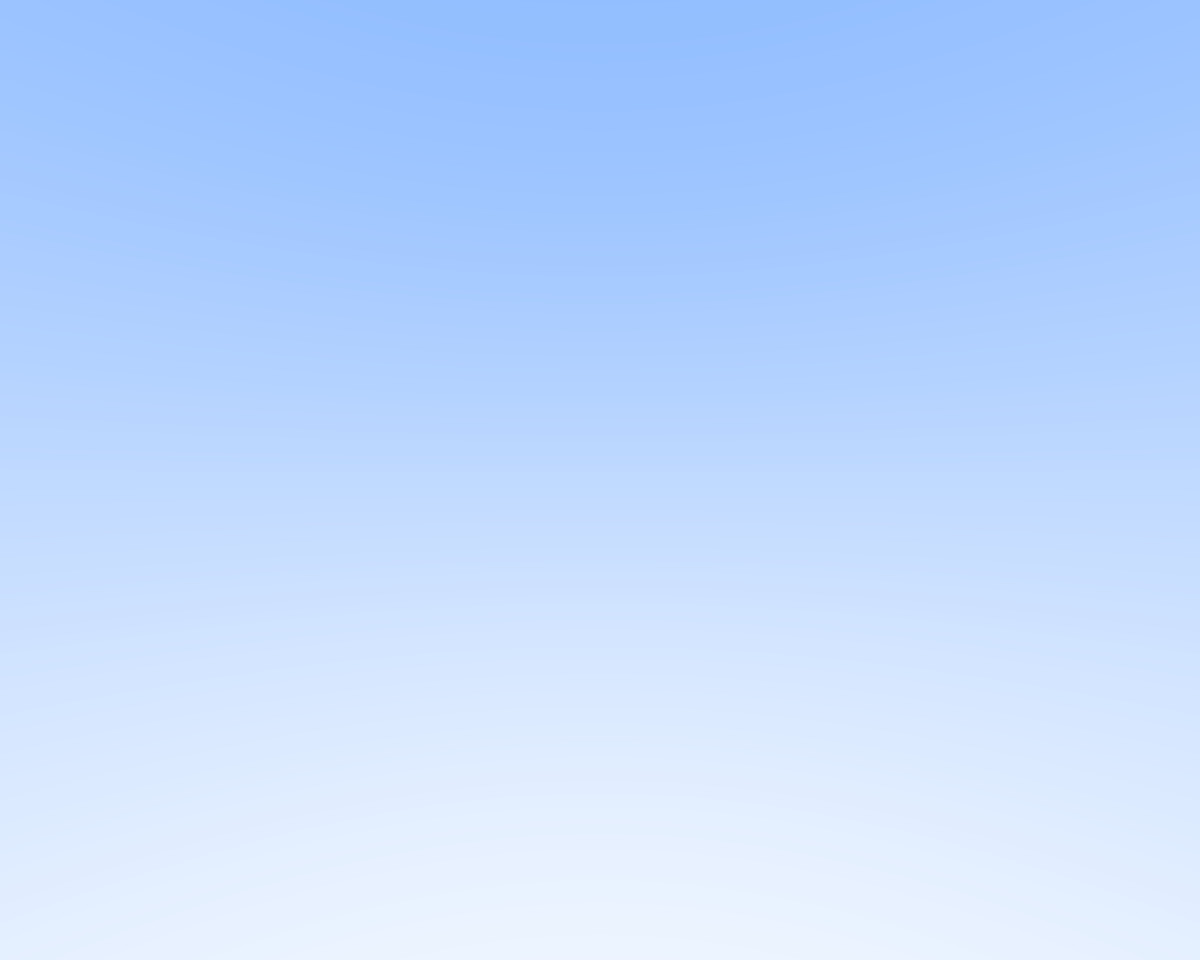
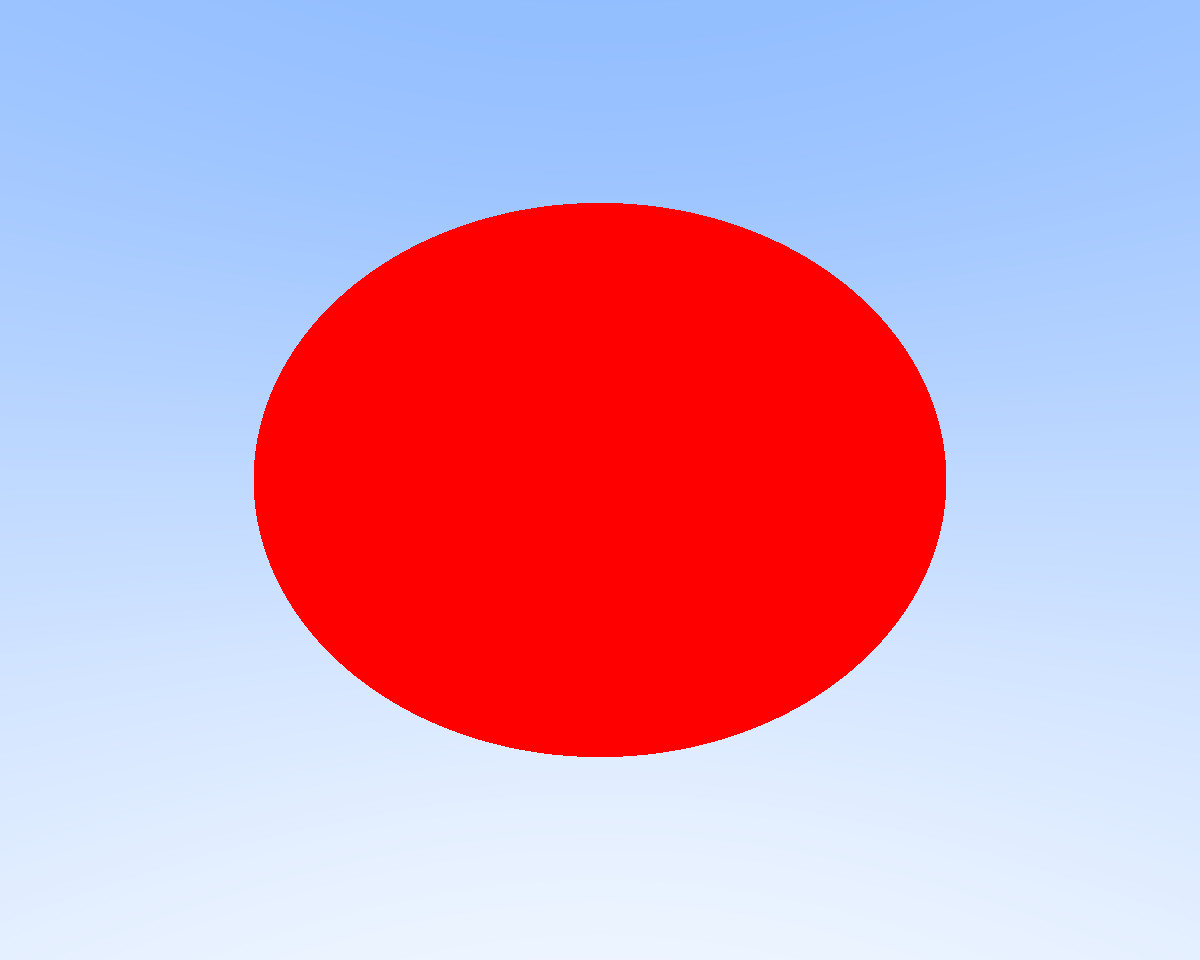
added the bare basic sphere

Changed region(s): [[0.185, 0.1875, 0.8017, 0.8125]]

diff --git a/src/vec3/mod.rs b/src/vec3/mod.rs
@@ -78,6 +78,13 @@ impl ops::Add<Vec3> for &Vec3 {
     }
 }
 
+impl ops::Add<&Vec3> for &Vec3 {
+    type Output = Vec3;
+    fn add(self, rhs: &Vec3) -> Self::Output {
+        Vec3(rhs.0 + self.0, rhs.1 + self.1, rhs.2 + self.2)
+    }
+}
+
 impl ops::AddAssign<Vec3> for Vec3 {
     fn add_assign(&mut self, rhs: Vec3) {
         self.0 += rhs.0;
@@ -86,9 +93,35 @@ impl ops::AddAssign<Vec3> for Vec3 {
     }
 }
 
+/// Vector subtraction, done element-wise.
+/// Tested
 impl ops::Sub<Vec3> for Vec3 {
     type Output = Vec3;
     fn sub(self, rhs: Vec3) -> Self::Output {
+        Vec3(self.0 - rhs.0, self.1 - rhs.1, self.2 - rhs.2)
+    }
+}
+
+/// Tested
+impl ops::Sub<&Vec3> for &Vec3 {
+    type Output = Vec3;
+    fn sub(self, rhs: &Vec3) -> Self::Output {
+        Vec3(self.0 - rhs.0, self.1 - rhs.1, self.2 - rhs.2)
+    }
+}
+
+/// Tested
+impl ops::Sub<Vec3> for &Vec3 {
+    type Output = Vec3;
+    fn sub(self, rhs: Vec3) -> Self::Output {
+        Vec3(self.0 - rhs.0, self.1 - rhs.1, self.2 - rhs.2)
+    }
+}
+
+/// Tested
+impl ops::Sub<&Vec3> for Vec3 {
+    type Output = Vec3;
+    fn sub(self, rhs: &Vec3) -> Self::Output {
         Vec3(self.0 - rhs.0, self.1 - rhs.1, self.2 - rhs.2)
     }
 }
@@ -118,6 +151,23 @@ impl ops::Mul<Vec3> for f32 {
     }
 }
 
+/// Implementing scalar multiplication
+impl ops::Mul<Vec3> for usize {
+    type Output = Vec3;
+    fn mul(self, rhs: Vec3) -> Self::Output {
+        let conv = self as f32;
+        conv * rhs
+    }
+}
+
+/// Implementing scalar multiplication
+impl ops::Mul<usize> for Vec3 {
+    type Output = Vec3;
+    fn mul(self, rhs: usize) -> Self::Output {
+        rhs * self
+    }
+}
+
 /// Implementing element wise multiplication
 impl ops::Mul<Vec3> for Vec3 {
     type Output = Vec3;
@@ -140,6 +190,16 @@ impl ops::Div<f32> for Vec3 {
     type Output = Vec3;
     fn div(self, rhs: f32) -> Self::Output {
         Vec3(self.0 / rhs, self.1 / rhs, self.2 / rhs)
+    }
+}
+
+/// Implementing scalar division for vec3
+/// Tested
+impl ops::Div<usize> for Vec3 {
+    type Output = Vec3;
+    fn div(self, rhs: usize) -> Self::Output {
+        let conv = rhs as f32;
+        self / conv
     }
 }
 
@@ -222,6 +282,7 @@ mod tests {
     }
 
     #[test]
+    #[allow(clippy::op_ref)]
     fn vec3_left_ref_addition() {
         let left = Vec3(1., 2., 3.);
         let right = Vec3(4., 5., 6.);
@@ -248,6 +309,39 @@ mod tests {
         let left = Vec3(1., 2., 3.);
         let right = Vec3(4., 5., 6.);
         let res = left - right;
+        let expected = Vec3(-3., -3., -3.);
+
+        assert_eq!(res, expected);
+    }
+
+    #[test]
+    #[allow(clippy::op_ref)]
+    fn sub_left_ref_vec3() {
+        let left = Vec3(1., 2., 3.);
+        let right = Vec3(4., 5., 6.);
+        let res = &left - right;
+        let expected = Vec3(-3., -3., -3.);
+
+        assert_eq!(res, expected);
+    }
+
+    #[test]
+    #[allow(clippy::op_ref)]
+    fn sub_right_ref_vec3() {
+        let left = Vec3(1., 2., 3.);
+        let right = Vec3(4., 5., 6.);
+        let res = left - &right;
+        let expected = Vec3(-3., -3., -3.);
+
+        assert_eq!(res, expected);
+    }
+
+    #[test]
+    #[allow(clippy::op_ref)]
+    fn sub_ref_vec3() {
+        let left = Vec3(1., 2., 3.);
+        let right = Vec3(4., 5., 6.);
+        let res = &left - &right;
         let expected = Vec3(-3., -3., -3.);
 
         assert_eq!(res, expected);

diff --git a/src/main.rs b/src/main.rs
@@ -5,10 +5,25 @@ mod color;
 mod ray;
 mod vec3;
 
+fn hit_sphere(center: &vec3::Point3, radius: f32, r: &ray::Ray) -> bool {
+    let oc = center - r.origin.as_ref();
+    let a = r.direction.dot(&r.direction);
+    let b = -2.0 * r.direction.dot(&oc);
+    let c = oc.dot(&oc) - radius * radius;
+
+    let discriminant = b * b - 4. * a * c;
+
+    discriminant >= 0.
+}
+
 fn ray_color(r: ray::Ray) -> color::Color {
-    let unit_dir = r.direction.unit_vector();
-    let a = 0.5 * (unit_dir.1 + 1.);
-    color::Color::from_args(1., 1., 1.) * (1. - a) + a * color::Color::from_args(0.5, 0.7, 1.0)
+    if hit_sphere(&vec3::Vec3(0., 0., -1.), 0.5, &r) {
+        color::Color::from_args(1., 0., 0.)
+    } else {
+        let unit_dir = r.direction.unit_vector();
+        let a = 0.5 * (unit_dir.1 + 1.);
+        color::Color::from_args(1., 1., 1.) * (1. - a) + a * color::Color::from_args(0.5, 0.7, 1.0)
+    }
 }
 
 fn main() {
@@ -32,16 +47,14 @@ fn main() {
     let viewport_v = vec3::Vec3(0., -viewport_height, 0.);
 
     // Calculating pixel delta
-    // TODO: Implement scalars division with usize
-    let pixel_delta_u = viewport_u / (image_width as f32);
-    let pixel_delta_v = viewport_v / (image_height as f32);
+    let pixel_delta_u = viewport_u / image_width;
+    let pixel_delta_v = viewport_v / image_height;
 
     // Getting the location of the top left corner of the viewport
-    // TODO: Implement subtraction on a Vec3 reference
-    let viewport_upper_left: vec3::Vec3 = *camera_center.as_ref()
+    let viewport_upper_left: vec3::Vec3 = camera_center.as_ref()
         - vec3::Vec3(0., 0., focal_length)
-        - viewport_u / 2.
-        - viewport_v / 2.;
+        - (viewport_u / 2.)
+        - (viewport_v / 2.);
     let pixel00 = viewport_upper_left + (pixel_delta_u + pixel_delta_v) * 0.5;
 
     // render
@@ -50,9 +63,8 @@ fn main() {
 
     for j in (0..image_height).progress() {
         for i in 0..image_width {
-            // TODO: Overload the operator so there isn't manual casting
-            let pixel_center = pixel00 + (pixel_delta_u * i as f32) + (pixel_delta_v * j as f32);
-            let raydir = pixel_center - *camera_center.as_ref();
+            let pixel_center = pixel00 + (pixel_delta_u * i) + (pixel_delta_v * j);
+            let raydir = pixel_center - camera_center.as_ref();
             let r = ray::Ray::new(raydir, Rc::clone(&camera_center));
             let pixel = ray_color(r);
 
